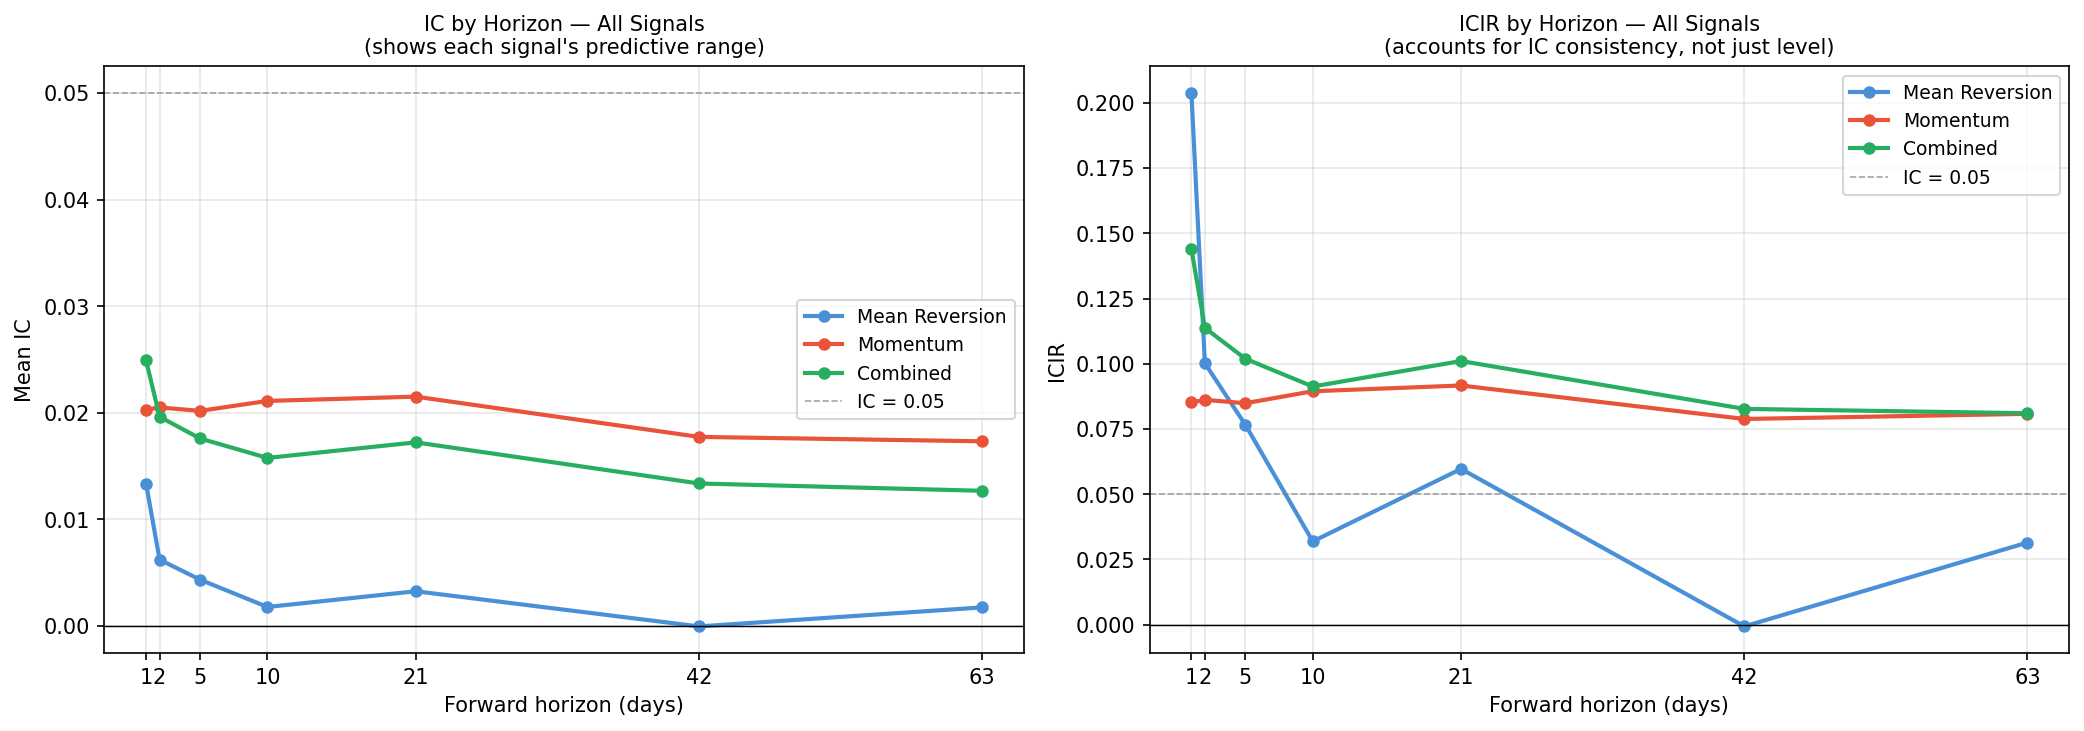
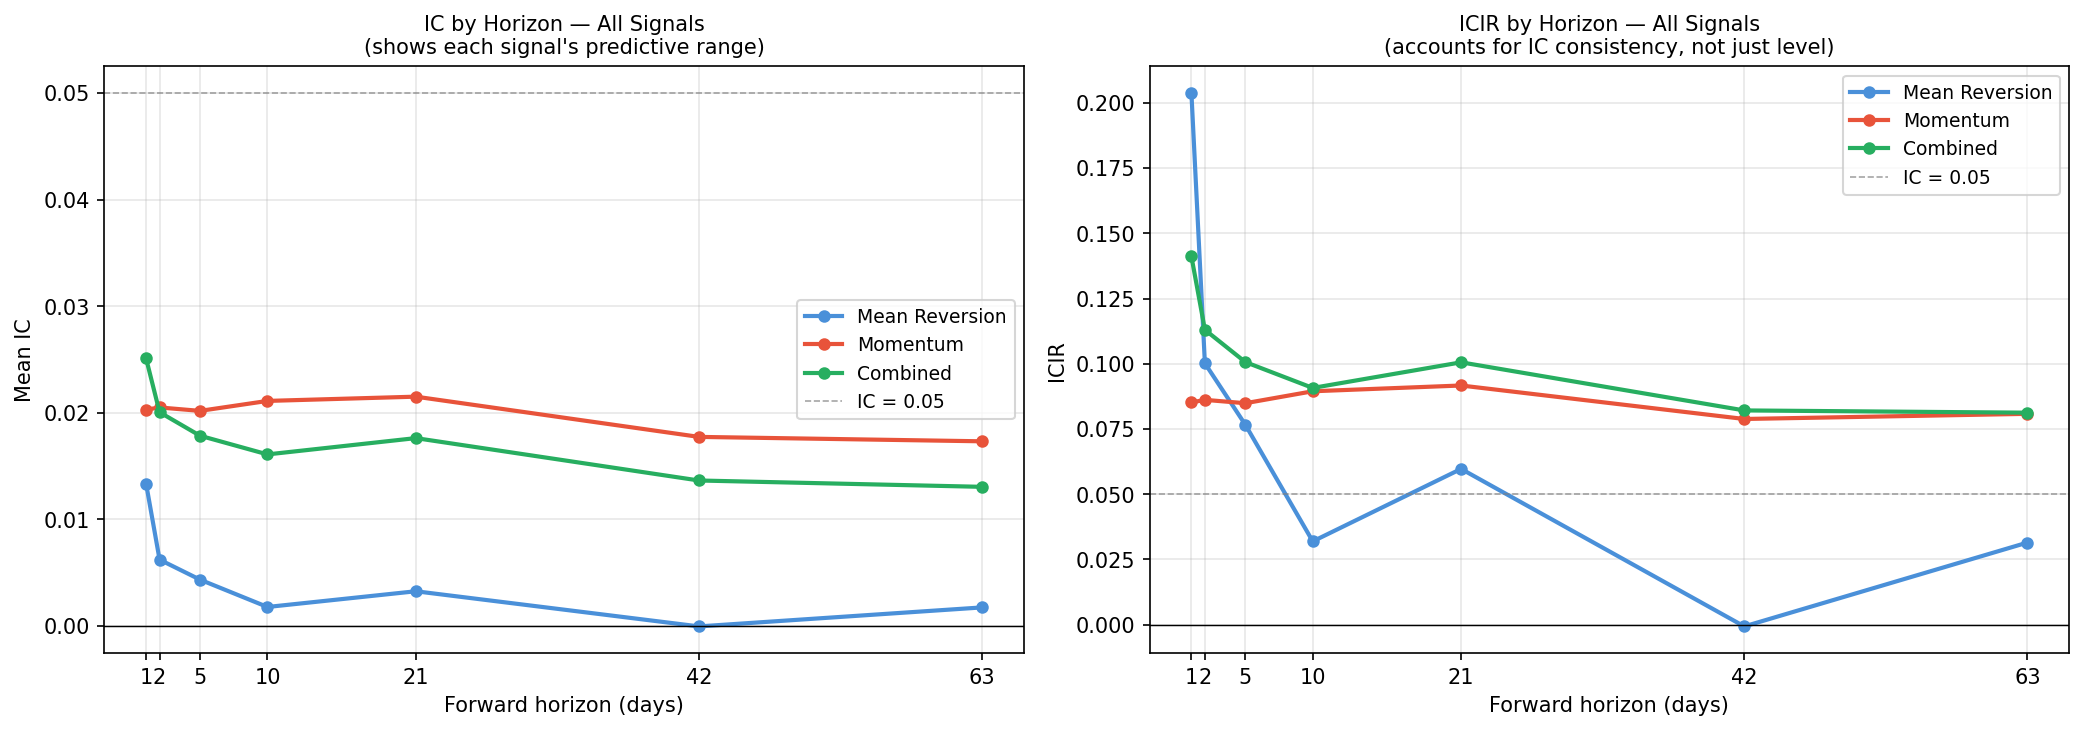
Reduced turnover and volatility.

diff --git a/main.py b/main.py
@@ -335,8 +335,15 @@ total = mr_strength + mom_strength
 w_mr  = (mr_strength / total).fillna(0.5)   # fallback to 50/50 if no history
 w_mom = (mom_strength / total).fillna(0.5)
 
-signal_train = w_mr * mr_train + w_mom * mom_train
+# --- ORTHOGONALISE MOMENTUM vs MR (TRAIN) ---
 
+beta = (mom_train * mr_train).mean(axis=1) / (mr_train**2).mean(axis=1)
+beta = beta.replace([np.inf, -np.inf], 0).fillna(0)
+beta = beta.clip(-5, 5)
+
+mom_orth = mom_train - mr_train.mul(beta, axis=0)
+
+signal_train = w_mr * mr_train + w_mom * mom_orth
 print(f"Signal stats:")
 print(f"  Non-null observations : {signal_train.notna().sum().sum():,}")
 print(f"  Cross-sectional mean  : {signal_train.mean().mean():.4f}  (should be ~0)")
@@ -458,8 +465,15 @@ mom_strength_t = mom_test.abs().rolling(60, min_periods=10).mean()
 total_t        = mr_strength_t + mom_strength_t
 w_mr_t         = (mr_strength_t / total_t).fillna(0.5)
 w_mom_t        = (mom_strength_t / total_t).fillna(0.5)
-signal_test    = w_mr_t * mr_test + w_mom_t * mom_test
+# --- ORTHOGONALISE MOMENTUM vs MR (TEST) ---
 
+beta_t = (mom_test * mr_test).mean(axis=1) / (mr_test**2).mean(axis=1)
+beta_t = beta_t.replace([np.inf, -np.inf], 0).fillna(0)
+beta_t = beta_t.clip(-5, 5)
+
+mom_orth_t = mom_test - mr_test.mul(beta_t, axis=0)
+
+signal_test = w_mr_t * mr_test + w_mom_t * mom_orth_t
 # Portfolio and backtest against RAW test returns
 weights_test = long_short_portfolio(
     signal_test, use_decile=True, returns=test_returns
@@ -521,7 +535,15 @@ def make_signal(idio_df: pd.DataFrame, full_ret: pd.DataFrame) -> pd.DataFrame:
     w_mr         = (mr_strength / total).fillna(0.5)
     w_mom        = (mom_strength / total).fillna(0.5)
 
-    signal = w_mr * mr + w_mom * mom
+    # --- ORTHOGONALISE MOMENTUM vs MR (WF) ---
+
+    beta = (mom * mr).mean(axis=1) / (mr**2).mean(axis=1)
+    beta = beta.replace([np.inf, -np.inf], 0).fillna(0)
+    beta = beta.clip(-5, 5)
+
+    mom_orth = mom - mr.mul(beta, axis=0)
+
+    signal = w_mr * mr + w_mom * mom_orth
     return signal.fillna(0)
 
 

diff --git a/src/portfolio.py b/src/portfolio.py
@@ -191,6 +191,19 @@ def long_short_portfolio(
     weights = pd.DataFrame(0.0, index=signal.index, columns=signal.columns)
 
     for date in signal.index:
+        prev_weights = weights.shift(1).loc[date].fillna(0)
+        if date != signal.index[0]:
+            prev_signal = signal.shift(1).loc[date].dropna()
+            common = row.index.intersection(prev_signal.index)
+
+            if len(common) > 0:
+                change = (row[common] - prev_signal[common]).abs().mean()
+
+                # only rebalance if signal changed meaningfully
+                if prev_weights.abs().sum() > 0 and change < 0.02:
+                    weights.loc[date] = prev_weights
+                    continue
+        
         row = signal.loc[date].dropna()
         if len(row) < 20:
             continue
